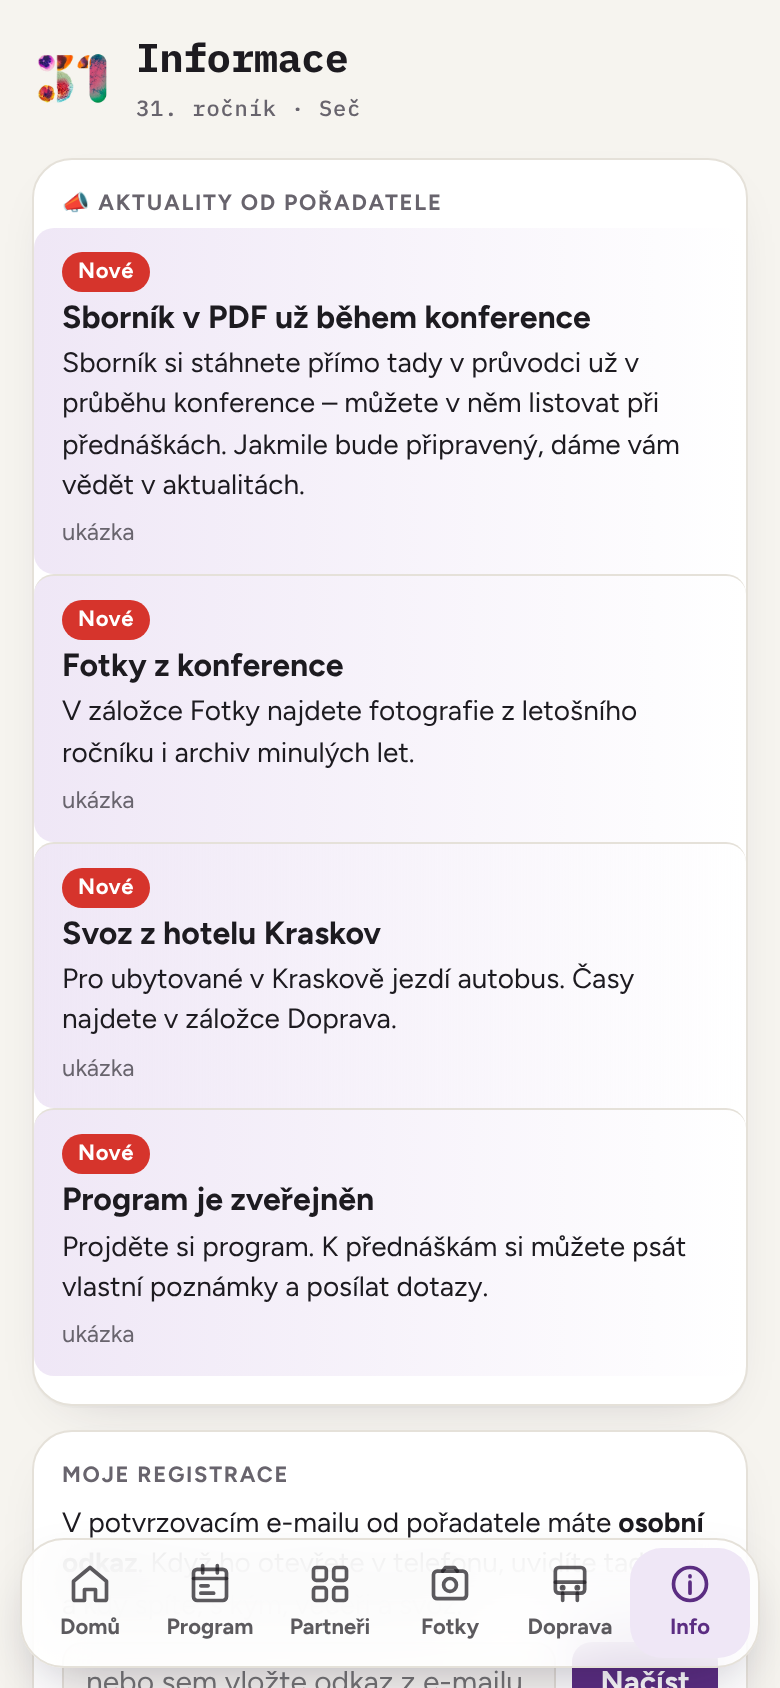
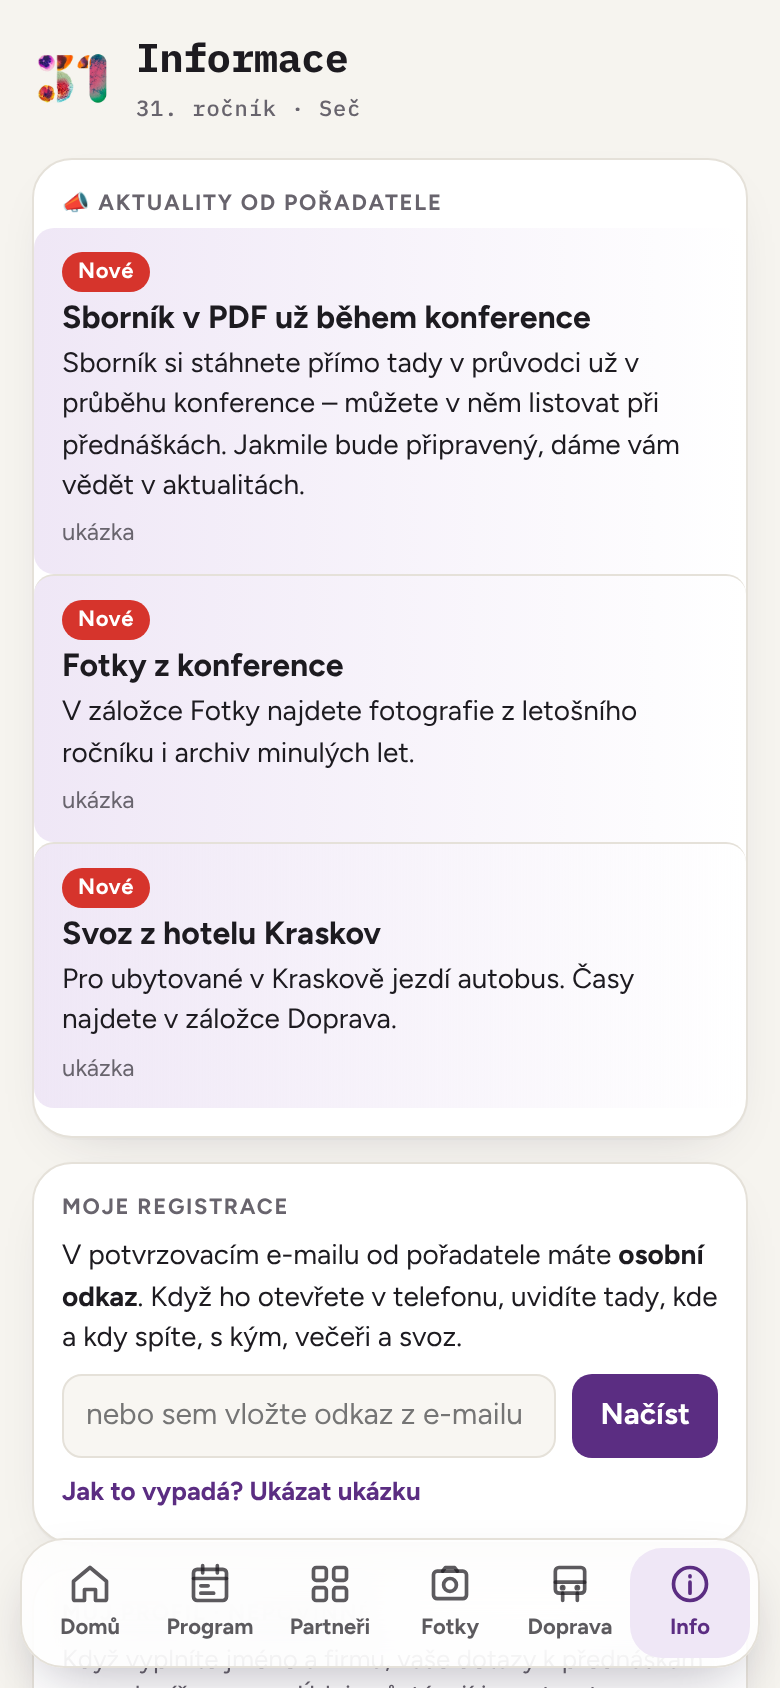
Promo v4: neutrální Program a Domů v telefonu, mobil/tablet/počítač, dohled J. Wannera, na Seči
Claude-Session: https://claude.ai/code/session_01SrEULVnesP8DzKC7AERzKA

diff --git a/promo/src/sec27.html b/promo/src/sec27.html
@@ -93,9 +93,9 @@ html,body{height:100%;background:#000;overflow:hidden}
   <div class="sc" id="s6"><div style="position:absolute;left:180px;top:250px;width:900px">
     <div class="k r" id="s6k">Novinka 31. ročníku</div>
     <div class="h r" id="s6h" style="font-size:92px;margin-top:30px">Konference<br>v&nbsp;telefonu</div>
-    <div class="sub r" id="s6s" style="margin-top:26px">Průvodce Seč 27 – vše po ruce, bez instalace z obchodu.</div>
+    <div class="sub r" id="s6s" style="margin-top:26px">Aplikace do mobilu, tabletu i počítače.<br>Vše po ruce – bez instalace z obchodu.</div>
     <div class="chips" id="chips"></div></div>
-    <div class="ph r" id="ph"><div class="scr"><img id="i0" src="shots/a-plakat.png"><img id="i1" src="shots/b-pocasi.png"><img id="i2" src="shots/c-navigace.png"><img id="i3" src="shots/d-aktuality.png"></div></div></div>
+    <div class="ph r" id="ph"><div class="scr"><img id="i0" src="shots/a-domu.png"><img id="i1" src="shots/a2-program.png"><img id="i2" src="shots/d-aktuality.png"><img id="i3" src="shots/b-pocasi.png"><img id="i4" src="shots/c-navigace.png"></div></div></div>
   <!-- 7 Zveme vás -->
   <div class="sc" id="s7"><div style="position:absolute;left:200px;top:260px;width:1100px">
     <div class="h r" id="s7h" style="font-size:120px">Zveme vás.</div>
@@ -110,7 +110,7 @@ html,body{height:100%;background:#000;overflow:hidden}
 <script>
 // Délky scén = násobky taktu 2,4 s (hudba music_sec27.py)
 const SC=["s1","s2","s3","s4","s5","sg","s6","s7","s8"];
-const D=[7.2,4.8,4.8,4.8,7.2,7.2,9.6,7.2,4.8], B=[0];D.forEach(d=>B.push(+(B[B.length-1]+d).toFixed(2)));const TOTAL=B[B.length-1];window.TOTAL=TOTAL;window.DURS=D;
+const D=[7.2,4.8,4.8,4.8,7.2,7.2,12,7.2,4.8], B=[0];D.forEach(d=>B.push(+(B[B.length-1]+d).toFixed(2)));const TOTAL=B[B.length-1];window.TOTAL=TOTAL;window.DURS=D;
 const $=id=>document.getElementById(id);
 const cl=(x,a=0,b=1)=>Math.max(a,Math.min(b,x)), ease=x=>x<.5?4*x*x*x:1-Math.pow(-2*x+2,3)/2, out=x=>1-Math.pow(1-x,3);
 const p=(t,a,d=.7)=>out(cl((t-a)/d));          // náběh prvku od času a
@@ -123,7 +123,7 @@ const st=$('st');FL.forEach((f,i)=>{const e=document.createElement('div');e.clas
 // slova scény 5
 const W=[["Přednášky.",9],["Diskuze.",6],["Setkání.",16],["Večer s přáteli.",3]];
 $('w4').innerHTML=W.map(([w,f],i)=>`<div id="wd${i}" class="r"><i style="background-image:url(../../obrazky/fleky/flek${String(f).padStart(2,'0')}.webp)"></i>${w}</div>`).join('');
-const CH=["📅 Program","❓ Dotazy – i hlasem","📣 Aktuality","🌤 Počasí","🧭 Navigace do hotelu","🪪 Moje registrace"];
+const CH=["📣 Aktuality z konference","❓ Dotazy k přednáškám – i hlasem","✎ Poznámky","📅 Program","🌤 Počasí","🧭 Navigace do hotelu","🪪 Moje registrace"];
 const GAR=[["Ing. Filip Wanner, Ph.D.","ENERGIE AG BOHEMIA s.r.o.",10],["Ing. Martin Srb, Ph.D.","Pražské vodovody a kanalizace, a.s.",16]];
 $('gar').innerHTML=GAR.map(([n,o,f],i)=>`<div class="r" id="gr${i}"><i style="background-image:url(../../obrazky/fleky/flek${String(f).padStart(2,'0')}.webp)"></i><div><b>${n}</b><span>${o}</span></div></div>`).join('');
 $('chips').innerHTML=CH.map((c,i)=>`<span class="chip r" id="ch${i}">${c}</span>`).join('');
@@ -158,8 +158,8 @@ function render(t){
   // 6 aplikace
   const ag=B[5];setP('sgk',p(t,ag+.3));GAR.forEach((g,i)=>setP('gr'+i,p(t,ag+.8+i*1.0,.6)));setP('sgz',p(t,ag+3.0));setP('sgs',p(t,ag+4.6));
   const a6=B[6];setP('s6k',p(t,a6+.3));setP('s6h',p(t,a6+.7));setP('s6s',p(t,a6+1.2));setP('ph',p(t,a6+.5,1));
-  CH.forEach((c,i)=>setP('ch'+i,p(t,a6+2+i*.6,.5)));
-  for(let i=0;i<4;i++){const s0=a6+1+i*2.2,o=i===0?cl((s0+2.4-t)/.4):i===3?cl((t-s0)/.4):cl((t-s0)/.4)*cl((s0+2.4-t)/.4);$('i'+i).style.opacity=t<a6+1?(i===0?1:0):o}
+  CH.forEach((c,i)=>setP('ch'+i,p(t,a6+2+i*.7,.5)));
+  for(let i=0;i<5;i++){const s0=a6+1+i*2.1,o=i===0?cl((s0+2.3-t)/.4):i===4?cl((t-s0)/.4):cl((t-s0)/.4)*cl((s0+2.3-t)/.4);$('i'+i).style.opacity=t<a6+1?(i===0?1:0):o}
   // 7
   const a7=B[7];setP('s7h',p(t,a7+.4));setP('s7s',p(t,a7+1));setP('qr',p(t,a7+1.4,.8));setP('logos',p(t,a7+2.2,.8));
   // 8

diff --git a/promo/video.html b/promo/video.html
@@ -47,11 +47,11 @@ video{ width:100%; aspect-ratio:16/9; background:#000; border-radius:12px; displ
     <img src="../ikony/ikona-192.png" alt="">
     <div>
       <h1>Zveme vás na Seč — video</h1>
-      <div class="sub">58 s · 31. ročník · 27.–28. dubna 2027 · VHOS · CzWA · Energie AG Bohemia</div>
+      <div class="sub">60 s · 31. ročník · 27.–28. dubna 2027 · VHOS · CzWA · Energie AG Bohemia</div>
     </div>
   </header>
 
-  <video id="v" controls playsinline preload="metadata" poster="sec27-pozvanka.jpg" src="sec27-pozvanka.mp4?v=2"></video>
+  <video id="v" controls playsinline preload="metadata" poster="sec27-pozvanka.jpg" src="sec27-pozvanka.mp4?v=3"></video>
 
   <div class="btns">
     <button class="btn primary" id="bShare">📤 Sdílet video</button>

diff --git a/promo/src/music_sec27.py b/promo/src/music_sec27.py
@@ -3,7 +3,7 @@
 import sys
 import numpy as np, wave
 SR=44100
-DUR=[float(x) for x in sys.argv[1:]] or [7.2,4.8,4.8,4.8,7.2,7.2,9.6,7.2,4.8]
+DUR=[float(x) for x in sys.argv[1:]] or [7.2,4.8,4.8,4.8,7.2,7.2,12,7.2,4.8]
 B=[0.0]
 for d in DUR: B.append(round(B[-1]+d,3))
 TOTAL=B[-1]

diff --git a/navrh/promo-sec27.md b/navrh/promo-sec27.md
@@ -30,3 +30,10 @@ jsou zakladatelé tradice.
 **Soubory:** `promo/src/sec27.html` (šablona, `render(t)`), `promo/src/render.js` (snímky → ffmpeg), `promo/src/music_sec27.py`
 (hudba → `music_sec27.wav`, necommitováno – vygeneruj znovu), výstup `promo/sec27-pozvanka.mp4` + `.jpg`, sdílení `promo/video.html`.
 Re-render: `cd promo/src && python3 music_sec27.py && node render.js /tmp/x.mp4 && ffmpeg -i /tmp/x.mp4 -i music_sec27.wav -c:v copy -c:a aac -b:a 160k -af afade=t=out:st=55.6:d=2 -shortest -movflags +faststart ../sec27-pozvanka.mp4`
+
+**v4 (14. 10.):** scéna 6 = 12 s (celkem 60 s): „Aplikace do mobilu, tabletu i počítače. Vše po ruce – bez instalace z obchodu.“
+Telefon střídá: Domů s dlaždicemi (bez „Dnes/svátek“), **neutrální Program** (šedé pruhy místo přednášek, „Program 31. ročníku
+právě připravujeme“), Aktuality (bez ukázky „Program je zveřejněn“), Počasí, Navigace. Štítky: Aktuality z konference ·
+Dotazy k přednáškám – i hlasem · Poznámky · Program · Počasí · Navigace do hotelu · Moje registrace.
+Garanti: Filip Wanner + Martin Srb „pod dohledem prof. Jiřího Wannera, který tradici založil s Ing. Vladimírem Langerem“.
+„Těšíme se na vás **na Seči**“; u Jezerky bez „Železné hory“. Snímky průvodce: skripty ve scratchpadu (sh.mjs, home.mjs, akt.mjs).
